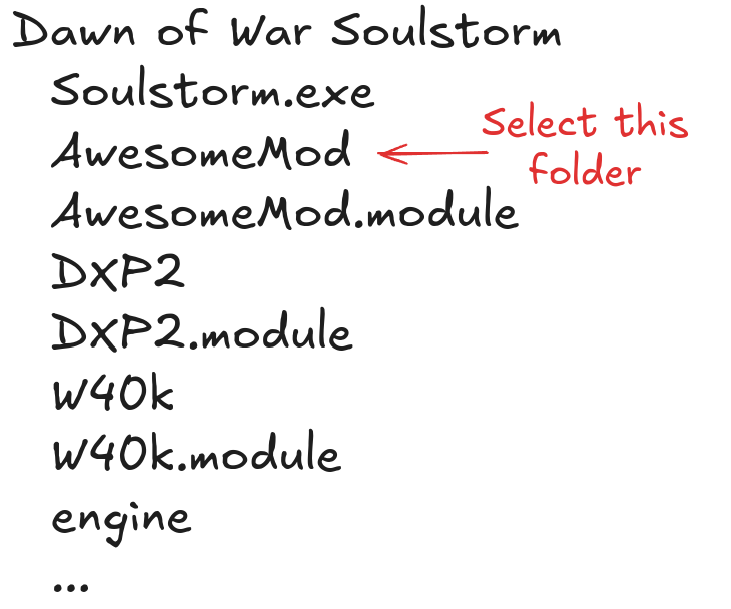
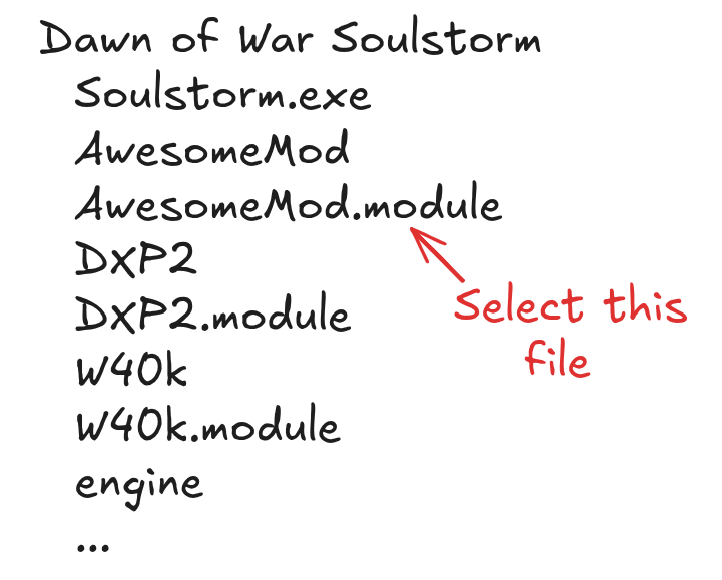
Add "Setup using .module" button

diff --git a/__init__.py b/__init__.py
@@ -18,6 +18,41 @@ class LastCallArgsGroup(bpy.types.PropertyGroup):
     export_sgm: bpy.props.StringProperty()
 
 
+class DOW_OT_setup_data_path_from_module(bpy.types.Operator):
+    """Setup the Mod folder from a mod .module file"""
+
+    bl_idname = 'object.dow_setup_with_module'
+    bl_label = 'Setup using .module'
+    bl_options = {'REGISTER', 'UNDO'}
+
+    filepath: bpy.props.StringProperty(subtype="FILE_PATH")
+    directory: bpy.props.StringProperty(subtype="DIR_PATH")
+    filter_glob: bpy.props.StringProperty(
+        default='*.module',
+        options={'HIDDEN'},
+        maxlen=255,
+    )
+
+    def execute(self, context):
+        import configparser
+
+        config = configparser.ConfigParser(interpolation=None, comment_prefixes=('#', ';', '--'))
+        filepath = pathlib.Path(self.filepath)
+        with filepath.open('r') as f:
+            config.read_file(f)
+            config = config['global']
+            mod_folder = filepath.parent/config['modfolder']
+            if not mod_folder.is_dir():
+                raise Exception(f'Cannot find "{mod_folder}"')
+            addon_prefs = get_preferences(context)
+            addon_prefs.mod_folder = str(mod_folder)
+        return {'FINISHED'}
+
+    def invoke(self, context, event):
+        context.window_manager.fileselect_add(self)
+        return {'RUNNING_MODAL'}
+
+
 class AddonPreferences(bpy.types.AddonPreferences):
     bl_idname = __package__
 
@@ -78,10 +113,13 @@ class AddonPreferences(bpy.types.AddonPreferences):
 
     def draw(self, context):
         mod_folder = pathlib.Path(self.mod_folder)
+        self.layout.prop(self, 'mod_folder')
         if not (mod_folder.is_dir() and any(p.name.lower() == 'data' and p.is_dir() for p in mod_folder.iterdir())):
             self.layout.label(text='''The mod folder is probably not set up correctly. It must be a directory containing a 'data ' subdirectory.''', icon='ERROR')
-        self.layout.prop(self, 'mod_folder')
-        self.layout.prop(self, 'update_animations')
+        op = self.layout.operator(DOW_OT_setup_data_path_from_module.bl_idname)
+        if mod_folder.is_dir():
+            op.directory = str(mod_folder.parent)
+
         teamcolor_panel_header, teamcolor_panel = self.layout.panel('default_teamcolor')
         teamcolor_panel_header.label(text='Default teamcolor')
         if teamcolor_panel is not None:
@@ -419,6 +457,7 @@ def register():
     bpy.utils.register_class(ExportWhm)
     bpy.utils.register_class(ExportSgm)
     bpy.utils.register_class(LastCallArgsGroup)
+    bpy.utils.register_class(DOW_OT_setup_data_path_from_module)
     bpy.utils.register_class(AddonPreferences)
     bpy.types.TOPBAR_MT_file_import.append(import_menu_whm_func)
     bpy.types.TOPBAR_MT_file_import.append(import_menu_teamcolor_func)
@@ -444,6 +483,7 @@ def unregister():
     bpy.types.TOPBAR_MT_file_import.remove(import_menu_teamcolor_func)
     bpy.types.TOPBAR_MT_file_import.remove(import_menu_whm_func)
     bpy.utils.unregister_class(AddonPreferences)
+    bpy.utils.unregister_class(DOW_OT_setup_data_path_from_module)
     bpy.utils.unregister_class(LastCallArgsGroup)
     bpy.utils.unregister_class(ExportSgm)
     bpy.utils.unregister_class(ExportWhm)

diff --git a/docs/first_steps.md b/docs/first_steps.md
@@ -23,10 +23,13 @@ When you download a mod you most often get an archive that you must extract to t
 ![mod_image](../images/first_steps/mod_image.png)  
 Some mods provide an installer to do it for you.
 
-Anyways after installing the mod your game folder contains the new `.module` file and the mod folder.
-![folder_with_mod_image](../images/first_steps/folder_with_mod_image.png)  
-Set the "**Mod folder**" property of the addon to the path to your mod folder.  
+Anyway after installing the mod your game folder contains the new `.module` file and the mod folder.
+
+Click on the **"Setup using .module"** button and select your .module file.  
 ![preferences2](../images/first_steps/preferences2.png)  
+
+![folder_with_mod_image](../images/first_steps/folder_with_mod_image.png)  
+
 If you want to import a base game model they are inside the `DXP2` mod that is part of the default game files.
 
 ## Importing a model
